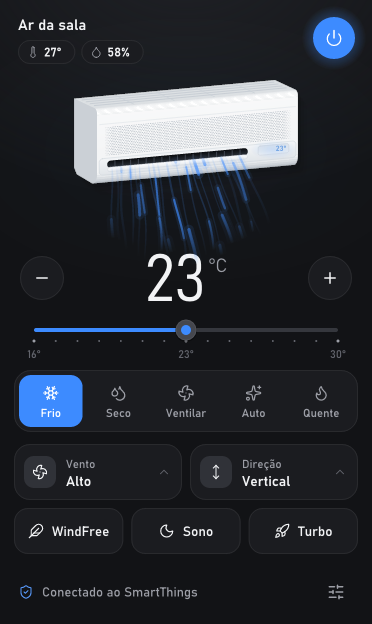
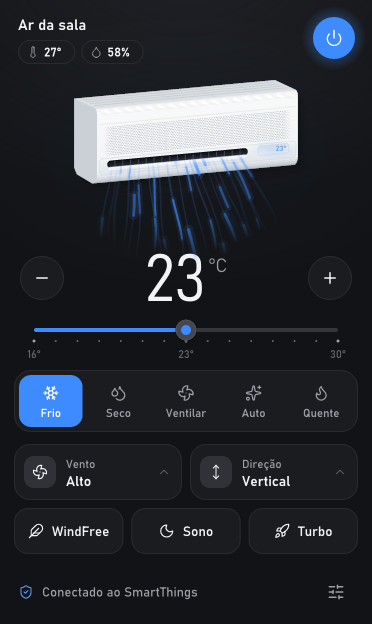
Spread the air wider to each side
The resting fan opens to 40 degrees each way instead of 23, and side swing sweeps 40 degrees instead of 28, with the vanes leaning to match.

Changed region(s): [[0.5027, 0.2436, 0.6801, 0.3958], [0.3253, 0.274, 0.5323, 0.3958], [0.2661, 0.3349, 0.3253, 0.3654]]

diff --git a/src/scene.rs b/src/scene.rs
@@ -40,7 +40,7 @@ pub const PITCH_UP: f32 = 25.0;
 pub const PITCH_DOWN: f32 = 72.0;
 pub const PITCH_REST: f32 = 52.0;
 /// How far the vanes turn the air to each side.
-pub const YAW_SWING: f32 = 28.0;
+pub const YAW_SWING: f32 = 40.0;
 
 /// What the scene shows; the panel eases every number, so changes glide instead of jumping.
 pub struct Look {
@@ -356,7 +356,7 @@ impl Scene {
                     along,
                     rank: order.iter().position(|&other| other == index).unwrap_or(index) as f32,
                     // The strands fan out, and the middle ones reach furthest.
-                    spread: (along - 0.5) * 46.0 + random.range(-3.0, 3.0),
+                    spread: (along - 0.5) * 80.0 + random.range(-3.0, 3.0),
                     tilt: random.range(-5.0, 5.0),
                     reach: (1.0 - 0.3 * side * side) * random.range(0.88, 1.06),
                     wave: random.range(1.2, 3.0),
